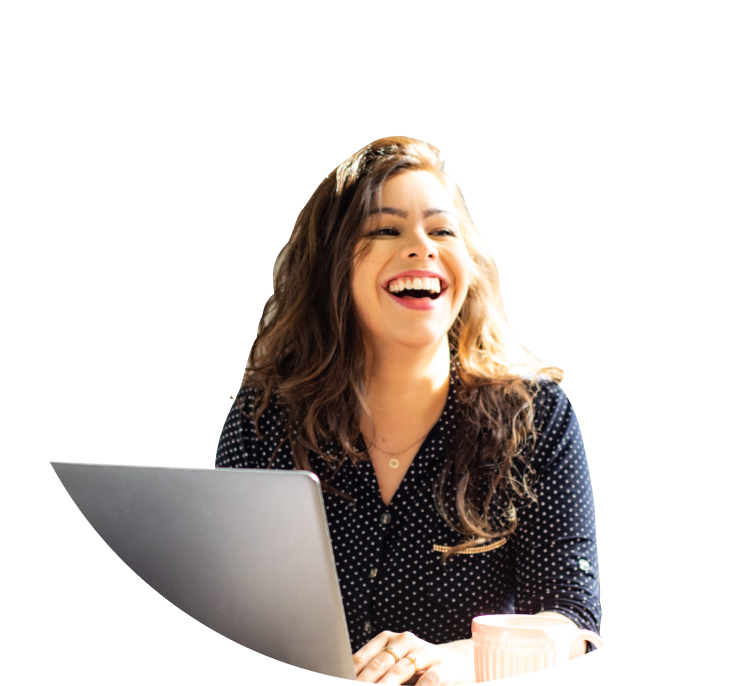
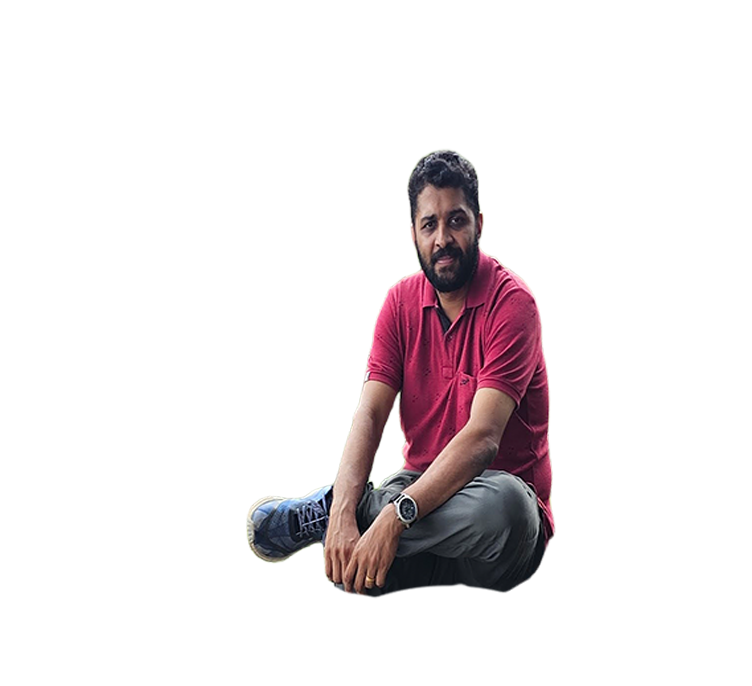
initial commits

diff --git a/index.html b/index.html
@@ -5,7 +5,7 @@
   <meta charset="UTF-8" />
   <meta http-equiv="X-UA-Compatible" content="IE=edge" />
   <meta name="viewport" content="width=device-width, initial-scale=1.0" />
-  <title>Base - Tailwind CSS Startup Template</title>
+  <title>Mr. Naveen Joshy -  Web Development services</title>
   <link rel="icon" href="logo.gif">
   <link href="style.css" rel="stylesheet">
 </head>
@@ -21,8 +21,8 @@
     <div class="bb ze ki xn 2xl:ud-px-0 oo wf yf i">
       <div class="vd to/4 tc wf yf">
         <a href="index.html">
-          <img class="om" src="images/logo.gif" alt="Logo Light" width="90px"/>
-          <img class="xc nm" src="images/logo.gif" alt="Logo Dark" width="90px" />
+          <img class="om" src="images/logo-light.gif" alt="Logo Light" width="90px"/>
+          <img class="xc nm" src="images/logo-dark.gif" alt="Logo Dark" width="90px" />
         </a>
 
         <!-- Hamburger Toggle BTN -->
@@ -116,19 +116,15 @@
       <div class="bb ze ki xn 2xl:ud-px-0">
         <div class="tc _o">
           <div class="animate_left jn/2">
-            <h1 class="fk vj zp or kk wm wb">We specialize in UI/UX, Web Development, Digital Marketing.</h1>
+            <h1 class="fk vj zp or kk wm wb">Mr. Naveen Joshy</h1>
             <p class="fq">
-              Lorem ipsum dolor sit amet, consectetur adipiscing elit. Quisque fringilla magna mauris. Nulla fermentum
-              viverra sem eu rhoncus consequat varius nisi quis, posuere magna.
+              Full-Stack Developer specializing in the MERN ecosystem. I bridge the gap between pixel-perfect user 
+              interfaces and secure, high-performance server architecture. 
+              Passionate about clean code, efficient databases, and smooth animations.
             </p>
 
             <div class="tc tf yo zf mb">
               <a href="#!" class="ek jk lk gh gi hi rg ml il vc _d _l">Get Started Now</a>
-
-              <span class="tc sf">
-                <a href="#!" class="inline-block ek xj kk wm"> Call us (0123) 456 – 789 </a>
-                <span class="inline-block">For any question or concern</span>
-              </span>
             </div>
           </div>
         </div>
@@ -146,8 +142,8 @@
               <img src="images/icon-01.svg" alt="Icon" />
             </div>
             <div>
-              <h4 class="ek yj go kk wm xb">24/7 Support</h4>
-              <p>Lorem ipsum dolor sit amet conse adipiscing elit.</p>
+              <h4 class="ek yj go kk wm xb">Constant Learner</h4>
+              <p>I code to build, but I learn to endure.</p>
             </div>
           </div>
 
@@ -157,8 +153,8 @@
               <img src="images/icon-02.svg" alt="Icon" />
             </div>
             <div>
-              <h4 class="ek yj go kk wm xb">Take Ownership</h4>
-              <p>Lorem ipsum dolor sit amet conse adipiscing elit.</p>
+              <h4 class="ek yj go kk wm xb">Highly Curious</h4>
+              <p>Each line of code is a new opportunity.</p>
             </div>
           </div>
 